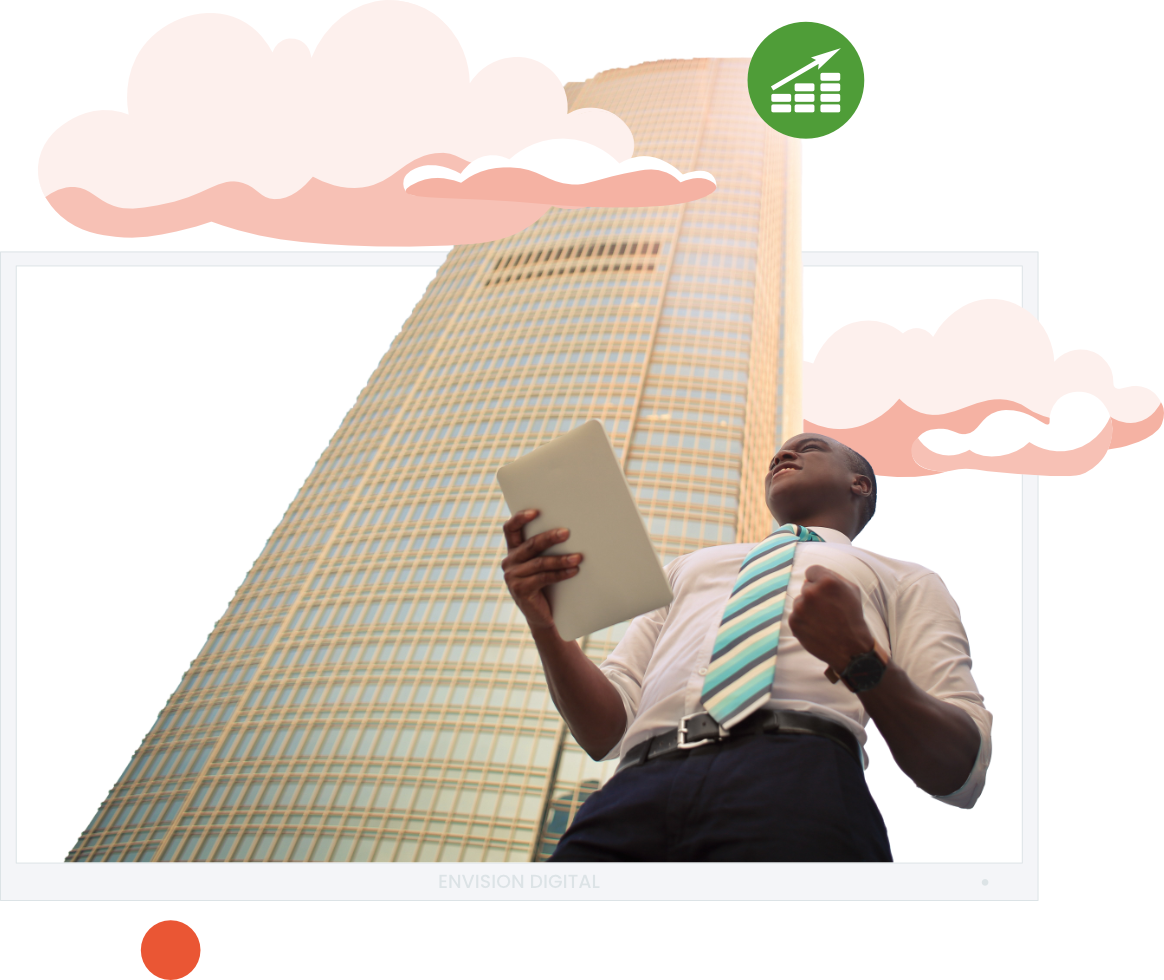
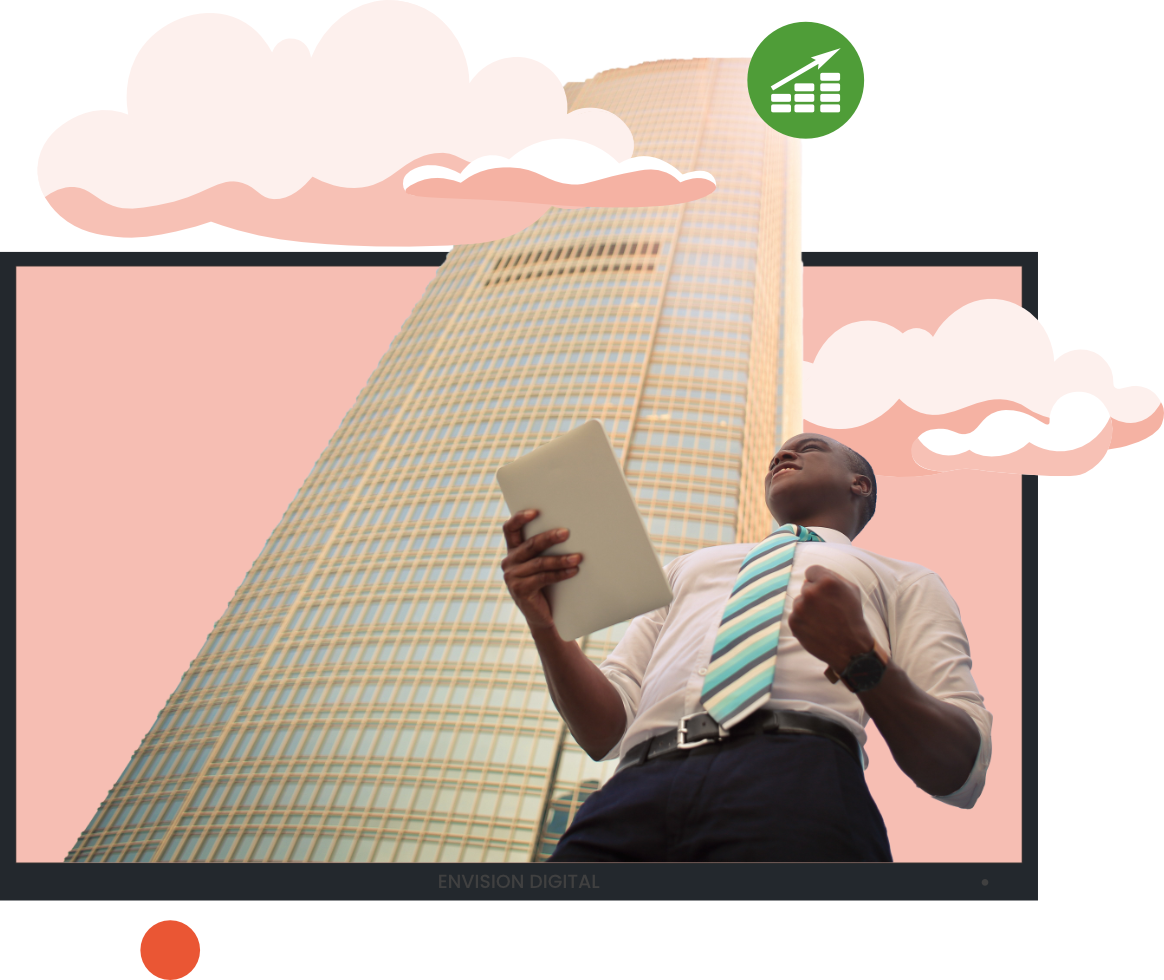
updated navbars

Changed region(s): [[0.0, 0.2449, 0.8969, 0.9184], [0.6804, 0.2449, 0.8969, 0.3673]]

diff --git a/components/layout/HomeNavbar.js b/components/layout/HomeNavbar.js
@@ -5,7 +5,7 @@ import PropTypes from "prop-types";
 import classNames from "classnames";
 
 //BUTTON COMPONENT
-import Button from "./../elements/Button";
+import Button from "../elements/Button";
 
 //IMPORT NAVBAR CSS
 import styles from "./../../styles/Navbar.module.scss";
@@ -22,7 +22,7 @@ const defaultProps = {
   hideSignIn: false,
 };
 
-const Navbar = ({ className, navPosition, hideNav, hideSignIn, ...props }) => {
+const HomeNavbar = ({ className, navPosition, hideNav, hideSignIn, ...props }) => {
   const [isActive, setIsActive] = useState(false);
 
   const nav = useRef(null);
@@ -74,7 +74,7 @@ const Navbar = ({ className, navPosition, hideNav, hideSignIn, ...props }) => {
             <li className={`${styles["logo"]}`}>
               <a href="/">
                 <Image
-                  src="/logo-rest.svg"
+                  src="/logo.svg"
                   width={10.3}
                   height={1}
                   alt="company logo"
@@ -144,7 +144,7 @@ const Navbar = ({ className, navPosition, hideNav, hideSignIn, ...props }) => {
   );
 };
 
-Navbar.propTypes = propTypes;
-Navbar.defaultProps = defaultProps;
+HomeNavbar.propTypes = propTypes;
+HomeNavbar.defaultProps = defaultProps;
 
-export default Navbar;
+export default HomeNavbar;

diff --git a/styles/_hamburger.scss b/styles/_hamburger.scss
@@ -14,7 +14,7 @@
 .hamburger-inner::before,
 .hamburger-inner::after {
   width: 1.5rem;
-  height: 0.12rem;
+  height: 0.15rem;
   position: absolute;
   background: var(--black-0);
 }
@@ -32,11 +32,11 @@
   display: block;
 }
 .hamburger-inner::before {
-  top: -7px;
+  top: -9px;
   transition: top 0.1s 0.25s ease-in, opacity 0.1s ease-in-out;
 }
 .hamburger-inner::after {
-  bottom: -7px;
+  bottom: -9px;
   transition: bottom 0.1s 0.25s ease-in,
     transform 0.22s cubic-bezier(0.55, 0.055, 0.675, 0.19),
     width 0.1s 0.25s ease-in;
@@ -83,7 +83,7 @@
 }
 .off-nav-is-active .hamburger-inner::before {
   top: 0;
-  opacity: 0; 
+  opacity: 0;
   transition: top 0.1s ease-out, opacity 0.1s 0.12s ease-out;
 }
 .off-nav-is-active .hamburger-inner::after {
@@ -116,9 +116,9 @@
     right: 0;
     top: 100%;
     z-index: 20;
-    background: var(--black-1);
+    background: var(--orange-3);
     max-height: 0;
-    min-height: 90vh;
+    // min-height: 90vh;
     opacity: 0;
     overflow: hidden;
     transition: max-height 0.25s ease-in-out, opacity 0.15s;

diff --git a/pages/contact.js b/pages/contact.js
@@ -79,7 +79,7 @@ const Contact = () => {
         <link rel="manifest" href="/site.webmanifest" />
         <link rel="mask-icon" href="/safari-pinned-tab.svg" color="#5bbad5" />
         <meta name="msapplication-TileColor" content="#da532c" />
-        <meta name="theme-color" content="#ffffff" />
+        <meta name="theme-color" content="#ea5634" />
         <link
           rel="stylesheet"
           href="https://use.fontawesome.com/releases/v5.13.0/css/all.css"
@@ -331,7 +331,7 @@ const Contact = () => {
       <article className={`${styles["map"]}`}>
         <iframe
           src="https://www.google.com/maps/embed?pb=!1m18!1m12!1m3!1d3962.81036456992!2d-1.57543838573297!3d6.670405223289915!2m3!1f0!2f0!3f0!3m2!1i1024!2i768!4f13.1!3m3!1m2!1s0xfdb947193f66f6f%3A0x92d4640770981ea4!2sNew%20Brunei%2C%20GUSSS%20Hostel!5e0!3m2!1sen!2sgh!4v1621018733012!5m2!1sen!2sgh"
-          allowFullScreen="true"
+          allowFullScreen={true}
           loading="lazy"
         ></iframe>
       </article>

diff --git a/styles/globals.scss b/styles/globals.scss
@@ -8,7 +8,7 @@
   --success: #039e66;
   --error: #e02c26;
   --tag: #ea5634;
-  --footer: #F4F5F8;
+  --footer: #f4f5f8;
   --disabled: #e9ecef;
 
   --black-0: #23282d; //original TRY #23282D
@@ -16,7 +16,7 @@
   --black-2: #535a66;
   --black-3: #727c8c;
   --black-4: #9aa1ac; //CCD2D5
-  --black-5: #F4F5F8; //CCD2D5
+  --black-5: #f4f5f8; //CCD2D5
 
   --white-0: #f7fafc; //original
   --white-1: #ccd2d5; //c4d7f2; old color
@@ -237,7 +237,7 @@ h3 {
   margin: 0;
 }
 //section header css
-.page-header {
+.page-header-home {
   background: rgb(235, 86, 52);
   background: radial-gradient(
     circle,
@@ -246,6 +246,9 @@ h3 {
     rgba(247, 250, 252, 0.8519782913165266) 100%
   );
   z-index: -1;
+}
+.page-header {
+  background: var(--orange-3);
 }
 //SECTION HEADER TYPE
 .tag {
@@ -272,8 +275,7 @@ h3 {
 .swiper-slide {
   background-size: cover;
   background-position: 50%;
-  // min-height: 100vh;
-  
+
   display: flex;
   align-items: center;
   justify-content: center;

diff --git a/components/sections/TestimonialSection.js b/components/sections/TestimonialSection.js
@@ -106,7 +106,7 @@ export default function TestimonialSection() {
           </SwiperSlide>
         </Swiper>
       </div>
-
+ 
       <div className={styles["slider-bg"]}>
         <Swiper
           style={{
@@ -130,7 +130,6 @@ export default function TestimonialSection() {
                   viewBox="0 0 24 24"
                 >
                   <path
-                    // className={`${styles["quote-icon"]}`}
                     d="M14.017 21v-7.391c0-5.704 3.731-9.57 8.983-10.609l.995 2.151c-2.432.917-3.995 3.638-3.995 5.849h4v10h-9.983zm-14.017 0v-7.391c0-5.704 3.748-9.57 9-10.609l.996 2.151c-2.433.917-3.996 3.638-3.996 5.849h3.983v10h-9.983z"
                   />
                 </svg>

diff --git a/pages/index.js b/pages/index.js
@@ -15,7 +15,7 @@ const Home = () => {
   return (
     <>
       <Head>
-        <title>Envision Digital - Home</title>
+        <title>The platform where students learn, connect and engage with brands and companies | Envision Digital</title>
         <meta name="keywords" content="digital" />
         <meta
           name="description"
@@ -48,7 +48,7 @@ const Home = () => {
         />
       </Head>
 
-      <section className={`page-header ${styles["hero-section"]}`}>
+      <section className={`page-header-home ${styles["hero-section"]}`}>
         <HeroSection />
       </section>
       <section className={`${styles["campus-section"]}`}>

diff --git a/styles/TestimonialSection.module.scss b/styles/TestimonialSection.module.scss
@@ -2,7 +2,7 @@
   color: var(--black-1);
   font-size: 2rem;
   font-weight: 800;
-  line-height: 40px;
+  line-height: 140%;
   padding-top: 1.5rem;
   padding-bottom: 1rem;
 }
@@ -51,11 +51,17 @@
 @media only screen and (max-width: 600px) {
   .testimonial-text {
     font-size: 1.5rem;
-    line-height: 35px;
+    // line-height: 35px;
   }
   .quote-icon {
     fill: var(--orange-3);
     width: 80px;
     height: 80px;
+  }
+}
+@media only screen and (max-width: 400px) {
+  .testimonial-text {
+    font-size: 1rem;
+    // line-height: 35px;
   }
 }

diff --git a/components/sections/HeroSection.js b/components/sections/HeroSection.js
@@ -1,13 +1,13 @@
 import Link from "next/link";
 import Button from "./../elements/Button";
-import Navbar from "../../components/layout/Navbar";
+import HomeNavbar from "../../components/layout/HomeNavbar";
 import styles from "./../../styles/HeroSection.module.scss";
 import Typical from "react-typical";
 
 const HeroSection = () => {
   return (
     <>
-        <Navbar />
+        <HomeNavbar />
         <div className={`container ${styles["hero-section-inner"]}`}>
           <h1>
             <div>Reach your most</div>

diff --git a/pages/about.js b/pages/about.js
@@ -19,7 +19,6 @@ const About = () => {
       <Head>
         <title>Envision Digital - About</title>
         <meta name="keywords" content="digital" />
-        {/* <html lang="en"></html> */}
         <link
           rel="apple-touch-icon"
           sizes="180x180"
@@ -120,10 +119,6 @@ const About = () => {
             </div>
           </div>
         </div>
-      </section>
-
-      <section className={`${styles["cta-section"]}`}>
-        <CtaSection />
       </section>
     </>
   );

diff --git a/styles/Navbar.module.scss b/styles/Navbar.module.scss
@@ -3,17 +3,19 @@
   position: relative !important;
   top: 0;
   width: 100%;
-  z-index: 10 !important;
+  // z-index: 10 !important;
 }
 .site-header-inner {
   display: flex;
-  justify-content: space-around;
+  justify-content: space-between;
   align-items: center;
   height: 4rem;
   padding-top: 1rem;
+  padding-bottom: 1rem;
 }
 .logo {
-  width: 11rem;
+  width: 12rem;
+  padding-left: 0.4rem;
   &:hover{
     cursor: pointer;
   }

diff --git a/styles/Button.module.scss b/styles/Button.module.scss
@@ -57,10 +57,10 @@
 
 @media only screen and (max-width: 680px) {
   .btn-primary-menu {
-    font-size: 2rem;
-    font-weight: 800;
+    font-size: 1.1rem;
+    font-weight: 600;
     padding: 0.5rem 1rem;
-    margin: 1rem 0;
+    margin: 0.5rem 0;
   }
 }
 

diff --git a/styles/_links.scss b/styles/_links.scss
@@ -115,9 +115,7 @@
 
 @media only screen and (max-width: 680px) {
   .navbar-link {
-    font-size: 2rem;
-    font-weight: 800;
-    padding: 2rem 0;
-    margin: 1rem 0;
+    font-size: 1.1rem;
+    font-weight: 600;
   }
 }
